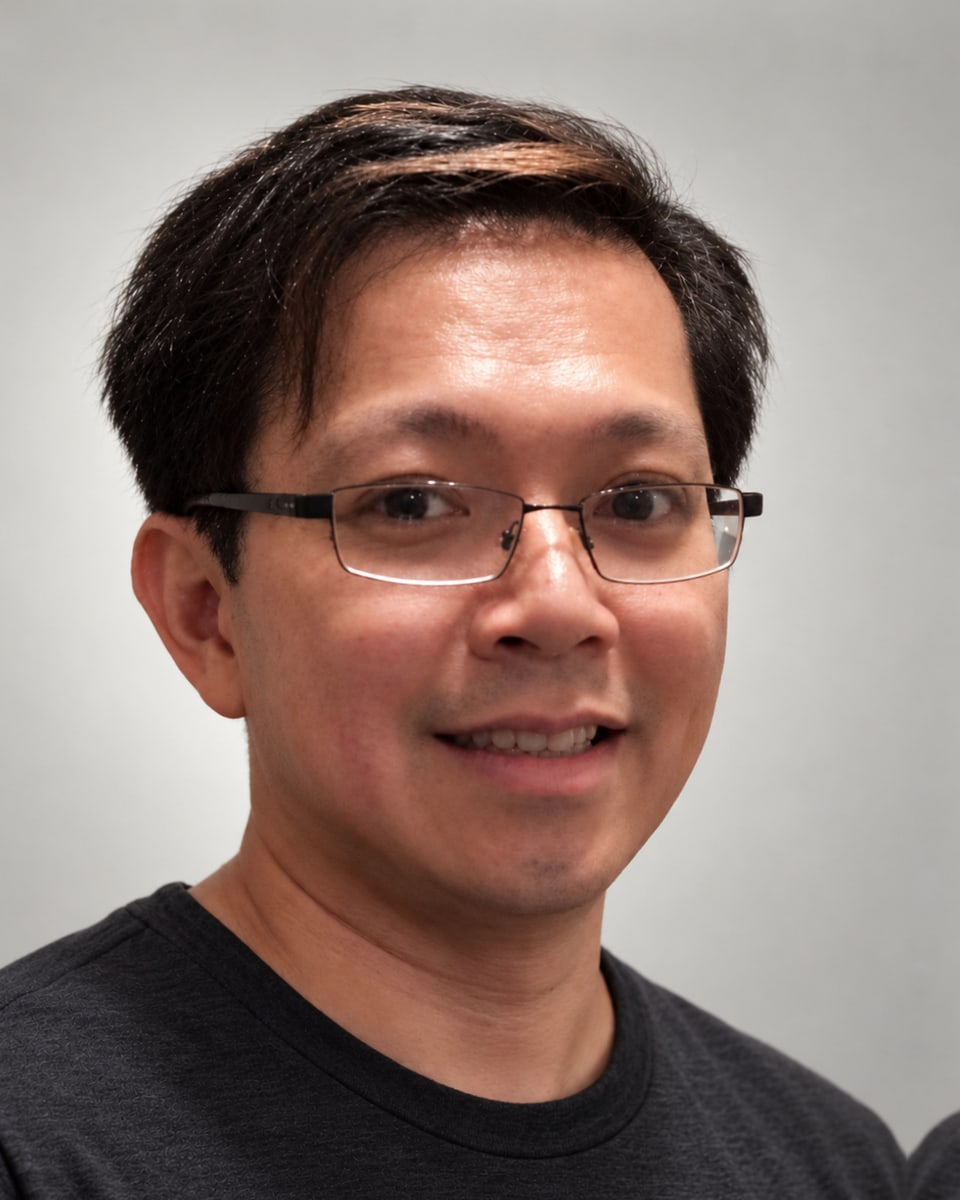
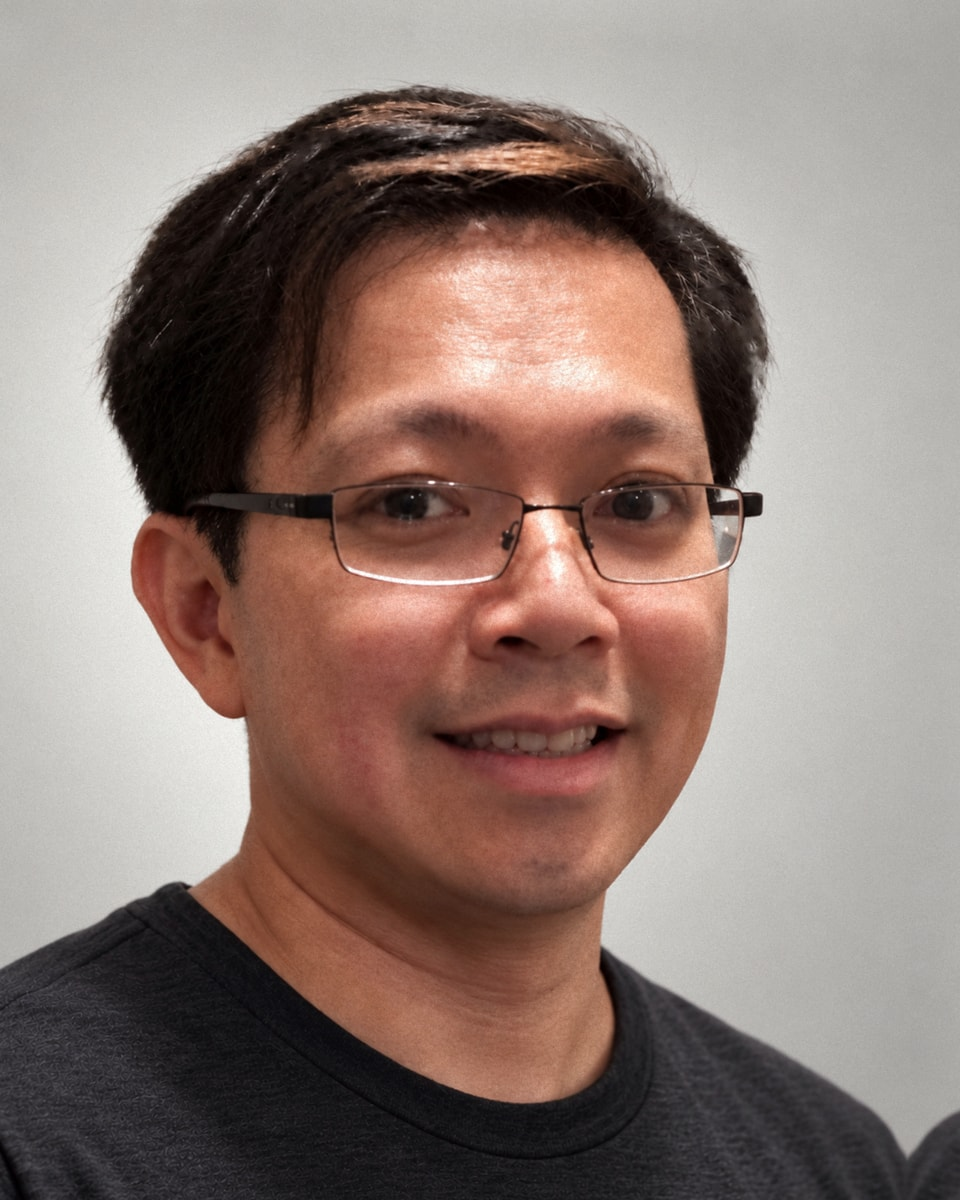
Remove hair specks and restore natural skin texture in portraits
The white dots in both founders' hair read as dandruff, and the skin
looked airbrushed. A retouch that never redraws a face now removes
small bright specks from the hair while keeping grey strands, keeps
the eyes and their catchlights untouched, and puts back fine pore
texture and one even film grain on both portraits. Portrait JPEGs are
saved at quality 90 so the texture survives. Face geometry still
measures within about 1.6% of each source photo.

diff --git a/README.md b/README.md
@@ -53,7 +53,7 @@ Headlines rise in on load, text rises and photographs unmask as they arrive, fig
 
 The photographs of Tokyo (`src/assets/photos/`) are generated placeholders, made to set the art direction. Replace them with licensed or commissioned photography before launch, keeping the same file names and roughly the same framing. `src/components/Photos.ts` holds each one's focal point.
 
-Founder portraits start from colour masters in `assets-source/portraits/`. Each was made by editing that founder's own photo into one consistent studio session (the same grey backdrop, soft light and framing) while keeping the face unchanged. They were checked against the source photos side by side and with Apple Vision face geometry, landing within about 2% of the source on average. Both share one pose, light, backdrop and lens, and were cropped so the eyes sit level at the same height with the same head size. `scripts/portraits.mjs` scales both to 960 × 1200 in colour. Each founder should approve their portrait before launch, and real studio photos can replace the masters at any time.
+Founder portraits start from colour masters in `assets-source/portraits/`. Each was made by editing that founder's own photo into one consistent studio session (the same grey backdrop, soft light and framing) while keeping the face unchanged. They were checked against the source photos side by side and with Apple Vision face geometry, landing within about 2% of the source on average. Both share one pose, light, backdrop and lens, and were cropped so the eyes sit level at the same height with the same head size. A final retouch, which never redraws a face, removed white specks from the hair and put back natural skin texture. `scripts/portraits.mjs` scales both to 960 × 1200 in colour. Each founder should approve their portrait before launch, and real studio photos can replace the masters at any time.
 
 ## Deploy
 
